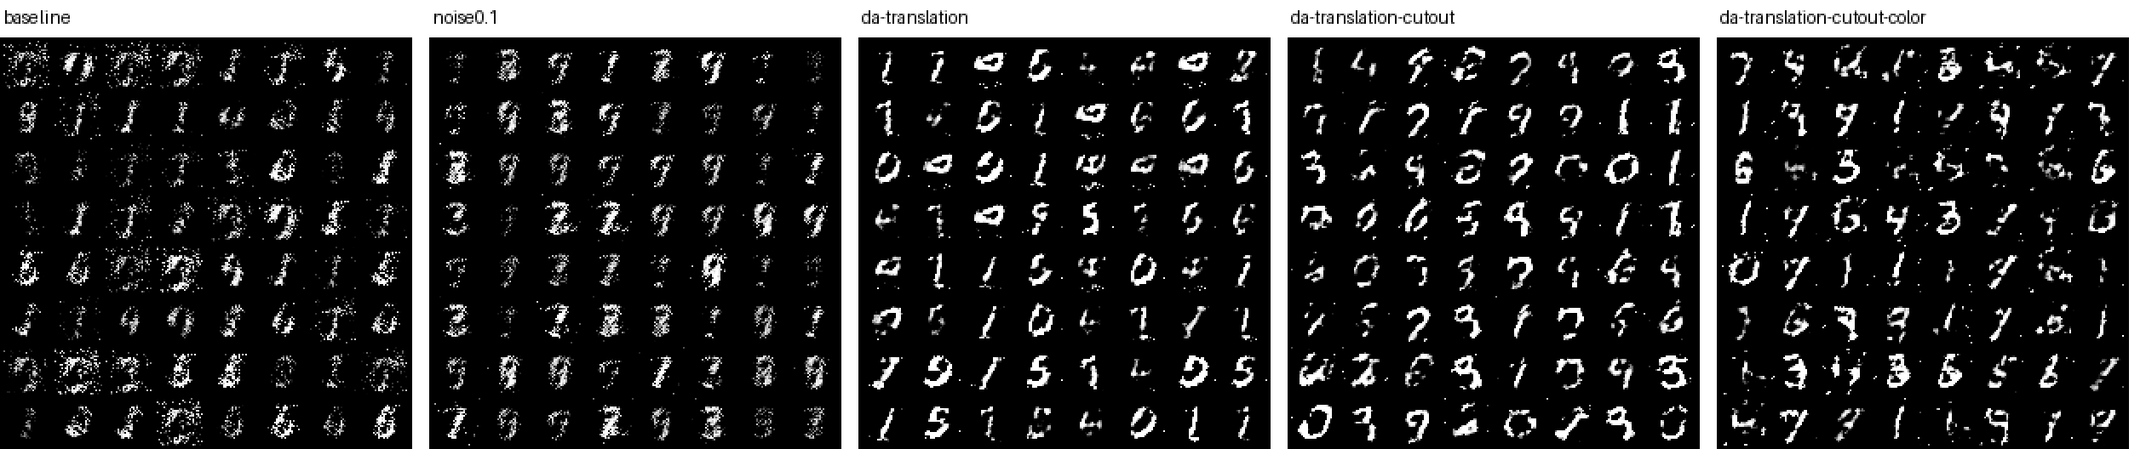
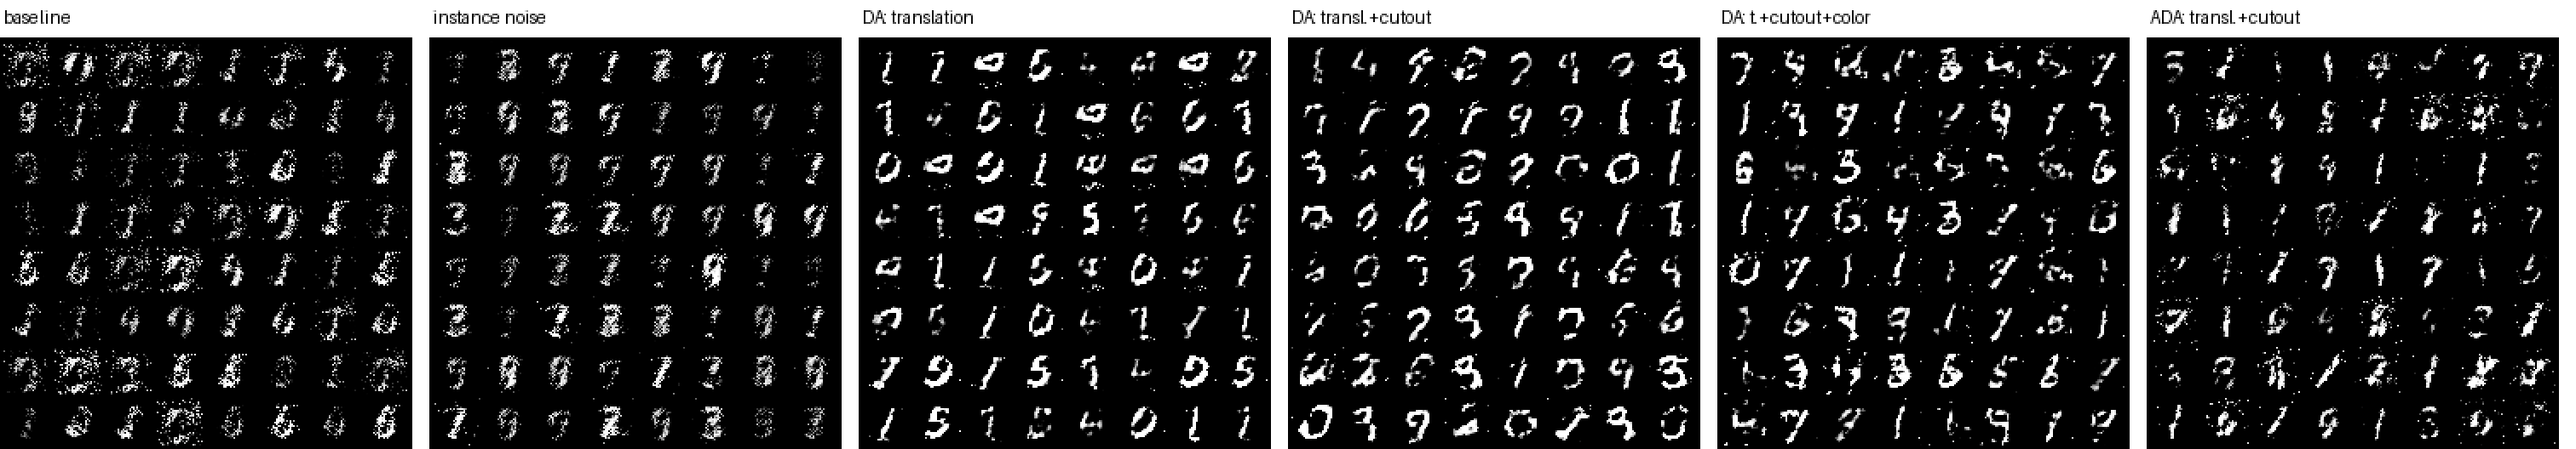
results: seed-0 local metrics for the DiffAugment study
DA translation+cutout: FD-MNIST 96 vs baseline 503 (same GPU), recall 4.1% vs 0,
near-uniform digit classes. Adds results CSV, workstream ledger, metrics and
digit-class figures, sample figure with ADA, and interpretation. Seed-1 repeats
of baseline/translation/ADA pending.

diff --git a/scripts/diffaug_figures.py b/scripts/diffaug_figures.py
@@ -1,0 +1,80 @@
+"""Results table and figures for the DiffAugment study from evaluate_frozen summaries.
+
+Usage: python scripts/diffaug_figures.py SUMMARY.json [SUMMARY.json ...]
+Writes experiments/diffaugment-results.csv, experiments/figures/diffaugment-metrics.png,
+experiments/figures/diffaugment-classes.png. Needs matplotlib (figures only; not a
+dependency of training or generate.py).
+"""
+import csv
+import json
+import sys
+from pathlib import Path
+
+import matplotlib
+matplotlib.use("Agg")
+import matplotlib.pyplot as plt
+
+ROOT = Path(__file__).resolve().parents[1]
+ORDER = ["baseline", "noise0.1", "da-translation", "da-translation-cutout",
+         "da-translation-cutout-color", "ada-translation-cutout"]
+LABEL = {"baseline": "baseline", "noise0.1": "instance\nnoise", "da-translation": "DA\ntransl.",
+         "da-translation-cutout": "DA transl.\n+cutout", "da-translation-cutout-color": "DA t.+cut.\n+color",
+         "ada-translation-cutout": "ADA t.\n+cutout"}
+
+(ROOT / "experiments/figures").mkdir(parents=True, exist_ok=True)
+rows = []
+for path in sys.argv[1:]:
+    summary = json.loads(Path(path).read_text())
+    for r in summary["results"]:
+        seed = r["config"].get("training_seed")
+        rows.append({"run_id": r["run_id"], "training_seed": seed, "FD_MNIST": r["FD_MNIST"],
+                     "precision": r["precision"], "recall": r["recall"],
+                     "classes": r["predicted_class_counts"], "checkpoint_sha256": r["checkpoint_sha256"]})
+rows.sort(key=lambda r: (ORDER.index(r["run_id"]), r["training_seed"]))
+
+with open(ROOT / "experiments/diffaugment-results.csv", "w", newline="") as f:
+    w = csv.writer(f)
+    w.writerow(["run_id", "training_seed", "FD_MNIST", "precision", "recall"]
+               + [f"pred_class_{k}" for k in range(10)] + ["checkpoint_sha256"])
+    for r in rows:
+        w.writerow([r["run_id"], r["training_seed"], round(r["FD_MNIST"], 4), r["precision"], r["recall"]]
+                   + r["classes"] + [r["checkpoint_sha256"]])
+
+conds = [c for c in ORDER if any(r["run_id"] == c for r in rows)]
+colors = ["#8E9CA6", "#B9A06B", "#426981", "#2E8B57", "#5FA37A", "#B5651D"]
+fig, axes = plt.subplots(1, 3, figsize=(13, 3.8))
+for ax, key, title in zip(axes, ["FD_MNIST", "precision", "recall"],
+                          ["FD-MNIST (lower is better)", "Precision (higher is better)", "Recall (higher is better)"]):
+    for x, c in enumerate(conds):
+        vals = [r[key] * (100 if key != "FD_MNIST" else 1) for r in rows if r["run_id"] == c]
+        mean = sum(vals) / len(vals)
+        ax.bar(x, mean, color=colors[ORDER.index(c)], width=0.7)
+        if len(vals) > 1:
+            ax.scatter([x] * len(vals), vals, color="black", s=12, zorder=3)
+        ax.text(x, mean, f"{mean:.0f}" if key == "FD_MNIST" else f"{mean:.1f}%", ha="center", va="bottom", fontsize=8)
+    ax.set_xticks(range(len(conds)))
+    ax.set_xticklabels([LABEL[c] for c in conds], fontsize=7.5)
+    ax.set_title(title, fontsize=10)
+    ax.spines[["top", "right"]].set_visible(False)
+fig.suptitle("DiffAugment study — 10 epochs, frozen local-MNIST64-k3 evaluator"
+             + (" (bars: mean over training seeds; dots: seeds)" if any(
+                 sum(r["run_id"] == c for r in rows) > 1 for c in conds) else " (one training seed)"),
+             fontsize=10)
+fig.tight_layout()
+fig.savefig(ROOT / "experiments/figures/diffaugment-metrics.png", dpi=160)
+
+fig, axes = plt.subplots(1, len(conds), figsize=(2.3 * len(conds), 2.6), sharey=True)
+for ax, c in zip(axes, conds):
+    counts = [r["classes"] for r in rows if r["run_id"] == c and r["training_seed"] == 0][0]
+    share = [100 * k / sum(counts) for k in counts]
+    ax.bar(range(10), share, color=colors[ORDER.index(c)])
+    ax.axhline(10, color="black", lw=0.8, ls="--")
+    ax.set_xticks(range(10))
+    ax.tick_params(labelsize=7)
+    ax.set_title(LABEL[c].replace("\n", " "), fontsize=8)
+    ax.spines[["top", "right"]].set_visible(False)
+axes[0].set_ylabel("% of 10,000 samples", fontsize=8)
+fig.suptitle("Digit predicted by the frozen classifier (seed 0); dashed line = 10% (uniform)", fontsize=9)
+fig.tight_layout()
+fig.savefig(ROOT / "experiments/figures/diffaugment-classes.png", dpi=160)
+print("wrote CSV and 2 figures for", len(rows), "rows")

diff --git a/experiments/diffaugment.md b/experiments/diffaugment.md
@@ -1,9 +1,11 @@
 # T1 — DiffAugment, instance noise and adaptive augmentation (training-side, D inputs)
 
-Workstream owner: Roey. Status: **training done for 5/6 conditions; local metrics pending.**
-Portable evidence: this report, [export-check CSV](diffaugment-export-check.csv),
-[workstream ledger](diffaugment-ledger.jsonl) (added when all runs finish) and
-[sample figure](figures/diffaugment-samples.png),
+Workstream owner: Roey. Status: **seed 0 complete for all 6 conditions; seed-1 repeats
+(baseline, translation, ADA) queued.**
+Portable evidence: this report, [results CSV](diffaugment-results.csv),
+[export-check CSV](diffaugment-export-check.csv), [workstream ledger](diffaugment-ledger.jsonl),
+figures: [metrics](figures/diffaugment-metrics.png), [digit classes](figures/diffaugment-classes.png),
+[samples](figures/diffaugment-samples.png),
 [what-D-sees figure](figures/diffaugment-what-d-sees.png). Full runs stay on Juliet under
 `~/a2-diffaug/repo/runs/` (ignored by Git, per the [artifact policy](README.md)).
 
@@ -39,7 +41,8 @@ Same as the shared baseline: 10 epochs, batch 64, Adam 2e-4, training seed 0,
 generation seed 1, batch 256, starter export (negative pixels clipped), frozen
 [local-MNIST64-k3-v1](local-metrics.md) evaluator. Runs on Juliet (A100), via
 `scripts/diffaug_study.sh` (one Slurm array task per condition, then evaluation).
-The baseline is re-run on the same GPU so all conditions share hardware.
+The baseline is re-run on the same GPU so all conditions share hardware (its run is
+recorded in the shared `ledger.jsonl` on Juliet; the five augmented runs in the workstream ledger).
 `scripts/baseline.py` gained `--augment`, `--instance-noise`, `--ada-target`; with
 none of them it behaves exactly as before.
 
@@ -50,11 +53,44 @@ none of them it behaves exactly as before.
 | da-translation | `--augment translation` | 179 | 1 |
 | da-translation-cutout | `--augment translation,cutout` | 180 | 1 |
 | da-translation-cutout-color | `--augment translation,cutout,color` | 183 | 1 |
-| ada-translation-cutout | `--augment translation,cutout --ada-target 0.6` | pending | 0.29 |
+| ada-translation-cutout | `--augment translation,cutout --ada-target 0.6` | 180 | 0.29 |
 
 ## Results
 
-**Local metrics: pending** (evaluation job runs after all training tasks succeed).
+Frozen local-MNIST64-k3-v1 metrics, training seed 0, generation seed 1, σ=1, starter
+export ([CSV](diffaugment-results.csv), [figure](figures/diffaugment-metrics.png)):
+
+| Condition | FD-MNIST ↓ | Precision ↑ | Recall ↑ | Largest digit class |
+|---|---:|---:|---:|---:|
+| baseline | 502.51 | **57.25%** | 0.00% | "5": 38% |
+| instance noise 0.1 | 632.42 | 51.72% | 0.00% | "5": 31% |
+| DA: translation | 232.82 | 55.65% | 0.17% | "1": 32% |
+| **DA: translation + cutout** | **95.98** | 43.29% | 4.14% | "1": 16% |
+| DA: translation + cutout + colour | 123.24 | 46.51% | 3.98% | "1": 21% |
+| ADA: translation + cutout | 375.98 | 44.47% | **5.77%** | "1": 41% |
+
+Real-vs-real control: FD 0.47, precision 89.5%, recall 90.7%.
+
+**Interpretation (one training seed — see limitations).**
+
+- **DiffAugment works on the fixed MLP**: translation alone more than halves FD (503 → 233)
+  at similar precision; adding cutout cuts FD by a further factor of 2.4 (→ 96) and is the
+  only setting whose digit classes are close to uniform
+  ([class figure](figures/diffaugment-classes.png)): every digit between 2.9% and 15.6%,
+  against 38% "5" for the baseline. Mode coverage, not sharper digits, drives the FD gain.
+- **Recall appears only with cutout** (≈4%), i.e. once D can no longer rely on any fixed
+  stroke. The price is ≈12 points of precision: G now spreads over more of the digit
+  manifold, including less clean samples.
+- **Stronger is not always better**: brightness/contrast on top of cutout raises FD
+  (96 → 123); a plausible reason is that MNIST has no real brightness variation to be robust to.
+- **Instance noise alone hurts** (FD 632): at std 0.1, annealed to 0, it did not remove D's
+  shortcut on this architecture (stronger or slower-annealed noise was not tested).
+- **ADA** reaches the highest recall (5.8%) but collapses toward "1" (41% of samples)
+  and has worse FD than fixed cutout; its p peaked at 0.53 and ended at 0.29, so it
+  augments far less than fixed cutout (p=1). Kept as a coverage option only if seed 1 confirms the recall.
+- **Single-seed caveat**: the same baseline settings gave FD 774 on CPU (shared
+  reference) and 503 on GPU here — training variance between runs is large. Seed-1 repeats
+  are queued; claims above should be read as preliminary until then.
 
 Visual check, first 64 exported images per condition, no selection
 ([figure](figures/diffaugment-samples.png)): the baseline gives speckled, noisy
@@ -89,5 +125,5 @@ two exports: `clip` = starter `save_image(x)` (negatives → 0); `rescale` =
 
 ## Limitations
 
-One training seed per condition; local development metrics, not official
+One training seed per condition so far (repeats queued); local development metrics, not official
 FID/precision/recall; 10-epoch budget only.
